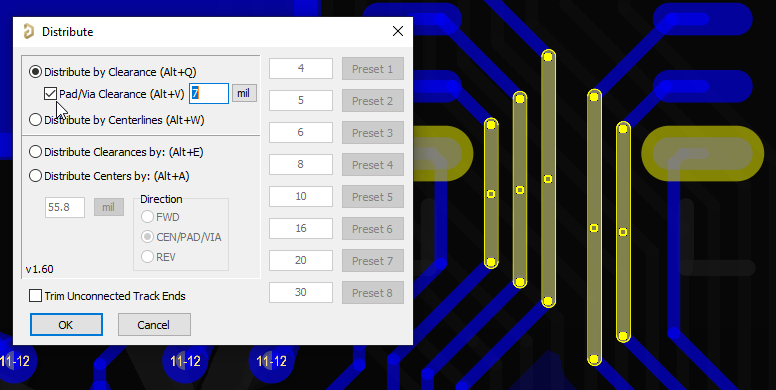
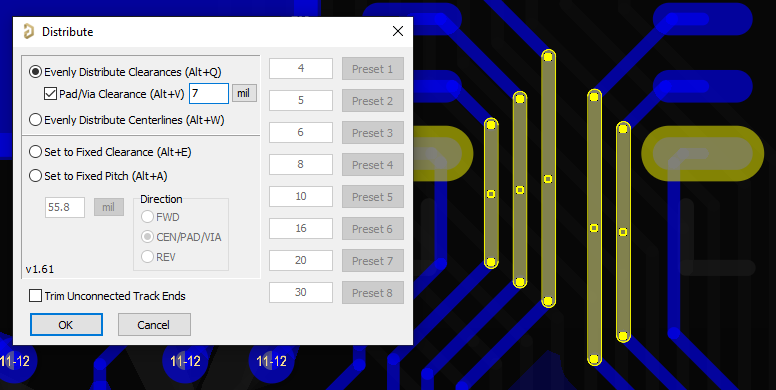
Distribute v1.61 updates GUI to better reflect behavior (#180)
* Update Distribute.pas

updated version

* Update Distribute.dfm

updated function names to better describe behavior

* Update README.md

* Replaced pad_example_GUI.png

diff --git a/Scripts - PCB/Distribute/README.md b/Scripts - PCB/Distribute/README.md
@@ -85,7 +85,8 @@ Sometimes, particularly when distributing tracks that are not routed at 90° or 
 Tracks with a slope greater than 20 (90° > angle > ~87.137°) will be coerced to be perfectly vertical. This is a limitation of the Double number type. In short, angles that are too steep will have Y-intercept values that are too large to handle.
 
 ## Change log
-- 2023-12-13 by Ryan Rutledge : v1.60 - added support for distributing between pads if they exist on the same layer as track (behavior should match via behavior otherwise)
+- 2023-12-14 by Ryan Rutledge : v1.61 - updated UI to better reflect behavior of distribute evenly versus by fixed distance
+- 2023-12-13 by Ryan Rutledge : v1.60 - added support for distributing between pads if they exist on the same layer as track (should match via behavior otherwise)
 - 2023-10-23 by Ryan Rutledge : v1.55 - fixed bug with save/load of GUI position
 - 2023-07-10 by Ryan Rutledge : v1.54 - after running between-via centering, vias are not deselected; added support for evenly distributing between vias with specific via clearance
 - 2023-06-07 by Ryan Rutledge : v1.53 - fixed typo in *SetupDataFromTrack* declaration (didn't seem to be functionally broken though); reformatted function signatures to use more concise and proper Delphi syntax - non-functional change because DelphiScript is untyped, but it's more "correct" now; allow centering between projected drills of vias that don't exist on track layer with user confirmation
